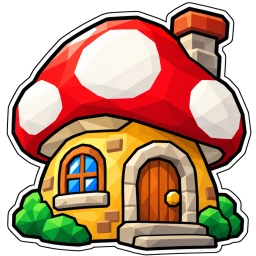
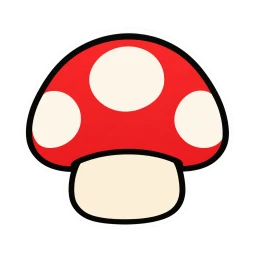
Add background letter [Testing]

diff --git a/test/presentation/manga_navigation_test.dart b/test/presentation/manga_navigation_test.dart
@@ -387,7 +387,7 @@ void main() {
         expect(shortLabel.data, switch (language) {
           'es' => 'TALLER',
           'pt' => 'OFICINA',
-          _ => 'GAME TOOL',
+          _ => 'TOOLS',
         });
         expect(tester.getSize(tile).width, greaterThanOrEqualTo(48));
         expect(tester.getSize(tile).height, greaterThanOrEqualTo(48));

diff --git a/docs/ARCHITECTURE.md b/docs/ARCHITECTURE.md
@@ -124,7 +124,7 @@ para evitar anuncios duplicados. La ruta abierta conserva el subrayado de acento
 mangaNavLibrary usa Mis Mods en español solo en el carrusel; Library y
 Biblioteca se conservan en inglés/portugués. La ruta /library y los títulos
 de pantalla no cambian. Regenerar la nueva clave con flutter gen-l10n.
-La clave mangaNavTools usa Game Tool / Taller / Oficina solo en la tira;
+La clave mangaNavTools usa Tools / Taller / Oficina solo en la tira;
 mangaNavMore usa MAS sin tilde en español solo en este menú.
 mangaNavExplore usa Mods en español (Explore / Explorar en inglés/portugués),
 sin cambiar los títulos de sección ni el panel de destinos.
@@ -142,16 +142,18 @@ Deslizar sigue sin cambiar la selección real ni navegar.
 
 El conjunto cartoon-v2 toma mods.png del usuario como referencia: colores
 facetados, contorno negro grueso y borde blanco de papel recortado. Mods usa
-el grupo de gorras/champiñón; Inicio conserva la casa, Taller las herramientas,
+el grupo de gorras/champiñón; Inicio usa un champiñón rojo simple (v3),
+sin casa ni facetas, y Taller las herramientas,
 Mis Mods una carpeta con tarjetas de juego y MAS el bloque de interrogación.
 Los PNG originales y los prompts del generador integrado imagegen están en
-output/imagegen/cartoon-navigation-v2/ (solo material local, fuera del APK).
+output/imagegen/cartoon-navigation-v2/ y output/imagegen/home-simple-v3/
+(solo material local, fuera del APK).
 El original de Mods tenía fondo negro opaco: se conserva aparte y se genera
 un recorte transparente antes de la conversión. No se afirma equivalencia
 píxel a píxel con la referencia tras la edición generativa.
 Solo assets/themes/manga/navigation/ está registrado en pubspec: cinco WebP
 RGBA de 256 × 256, calidad 88, método 6 y alfa de calidad 100.
-El conjunto ocupa 116.9 KiB. explore.webp conserva su ruta histórica, pero
+El conjunto ocupa 102.4 KiB. explore.webp conserva su ruta histórica, pero
 ahora contiene el icono de Mods; no se altera el agrupamiento de navegación.
 Los cinco archivos sustituyen a los anteriores sin duplicarlos en el bundle. Cada Image.asset limita su decodificación a
 256 × 256, comparte el ImageCache estándar de Flutter y aísla repintados con

diff --git a/docs/SM64CDPY-v1.7.0-TASK-CHECKLIST.md b/docs/SM64CDPY-v1.7.0-TASK-CHECKLIST.md
@@ -53,6 +53,8 @@
 - [ ] Revisar nuevos iconos claros/oscuros a tamaño real en teléfono.
 - [x] Ajuste 2026-10-21: fondo del tema al 85 % de opacidad y etiquetas
       completas sin elipsis; dos líneas al ampliar texto. Validación CI pendiente.
+- [x] Inicio simplificado a champiñón rojo de silueta limpia y bordes de
+      papel; WebP 256 px con alfa, sin cambiar navegación ni animación.
 - [ ] Validar en CI el ajuste posterior a las capturas (la build anterior no lo cubre).
 - [ ] Revisar Inicio/Catálogo Manga claro/oscuro en teléfono, texto grande,
       gestos Android, teclado y retorno desde CoopDX; comprobar los otros temas.
